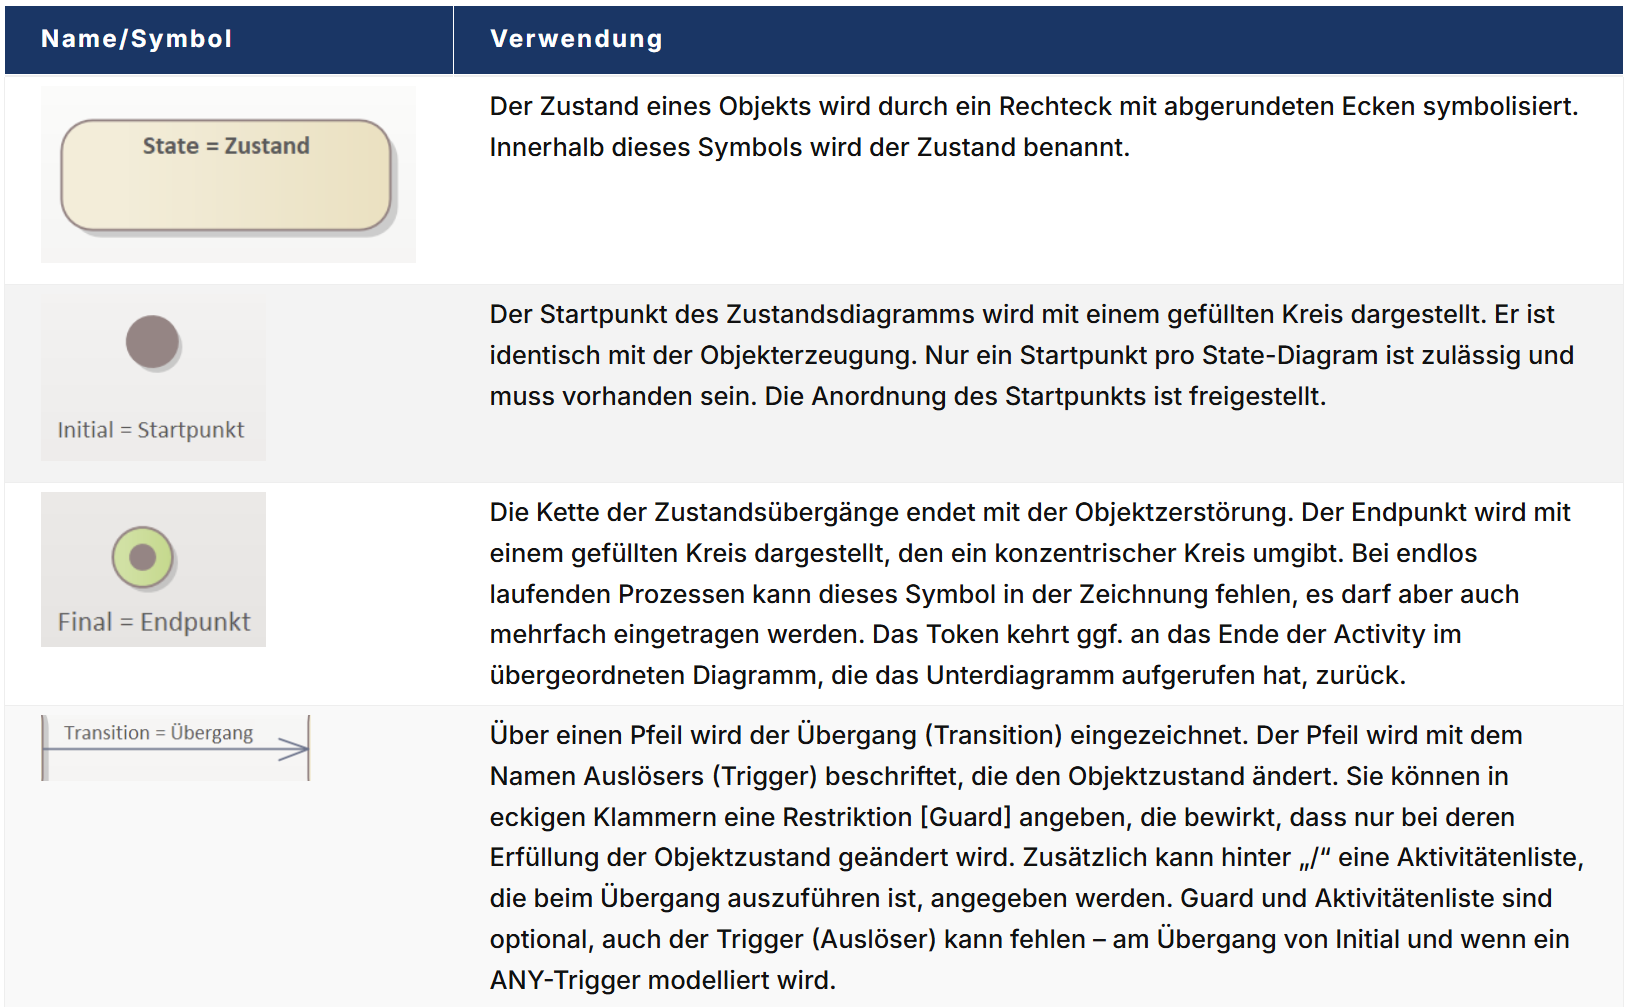
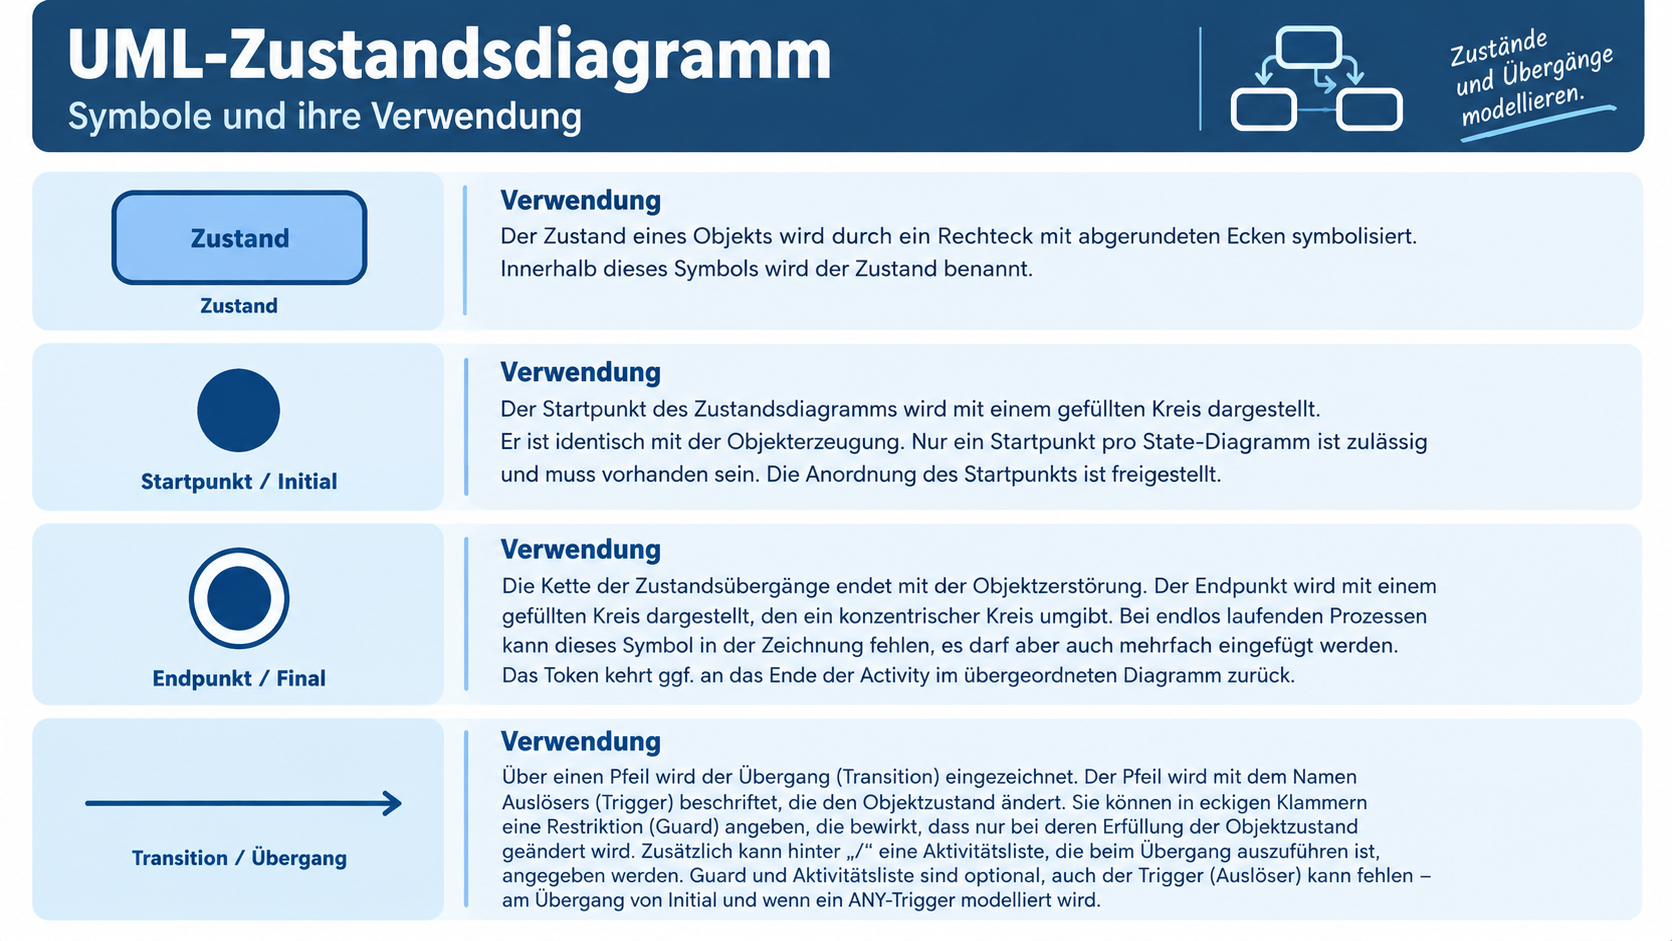
graphics recreated

diff --git a/b1_development/README.md b/b1_development/README.md
@@ -44,7 +44,7 @@ Die Unterstützungsprozesse werden im Berufsalltag häufig unterschätzt, da sie
 
 Das Wasserfallmodell ist das älteste und einfachste Vorgehensmodell der Softwareentwicklung: Die Phasen laufen **linear und sequenziell** ab – erst wenn eine Phase abgeschlossen ist, beginnt die nächste.
 
-![Wasserfallmodell](./x_gitres/wasserfallmodell.svg)
+![Wasserfallmodell](./x_gitres/wasserfallmodell.png)
 
 | **Phase**               | **Zentrale Frage**                                   | **Typisches Ergebnis (Dokument/Artefakt)**          |
 | ----------------------- | ---------------------------------------------------- | --------------------------------------------------- |
@@ -65,7 +65,7 @@ Das Wasserfallmodell ist das älteste und einfachste Vorgehensmodell der Softwar
 
 Eine bekannte Erweiterung des Wasserfallmodells ist das **V-Modell**. Es stellt den Entwicklungsprozessen auf der linken Seite die passenden Testaktivitäten auf der rechten Seite gegenüber – jede Entwurfsphase erhält damit eine "spiegelbildliche" Prüfphase.
 
-![V-Modell](./x_gitres/v_modell.svg)
+![V-Modell](./x_gitres/v_modell.png)
 
 **Kernidee:** Für jede Entwurfsebene wird bereits **während des Entwurfs** festgelegt, wie später getestet wird. Ein Abnahmetest wird z. B. direkt aus den Anforderungen abgeleitet – nicht erst am Ende improvisiert.
 

diff --git a/b2_spec/README.md b/b2_spec/README.md
@@ -53,7 +53,7 @@ In diesem Kurs verwenden wir vereinfacht den Begriff **Spezifikation** für ein 
 
 ## 1.3. Bestandteile einer Spezifikation
 
-![Bestandteile einer Spezifikation](./x_gitres/spezifikation.svg)
+![Bestandteile einer Spezifikation](./x_gitres/spezifikation.png)
 
 | Element                             | Inhalt                                                                        |
 | ----------------------------------- | ----------------------------------------------------------------------------- |
